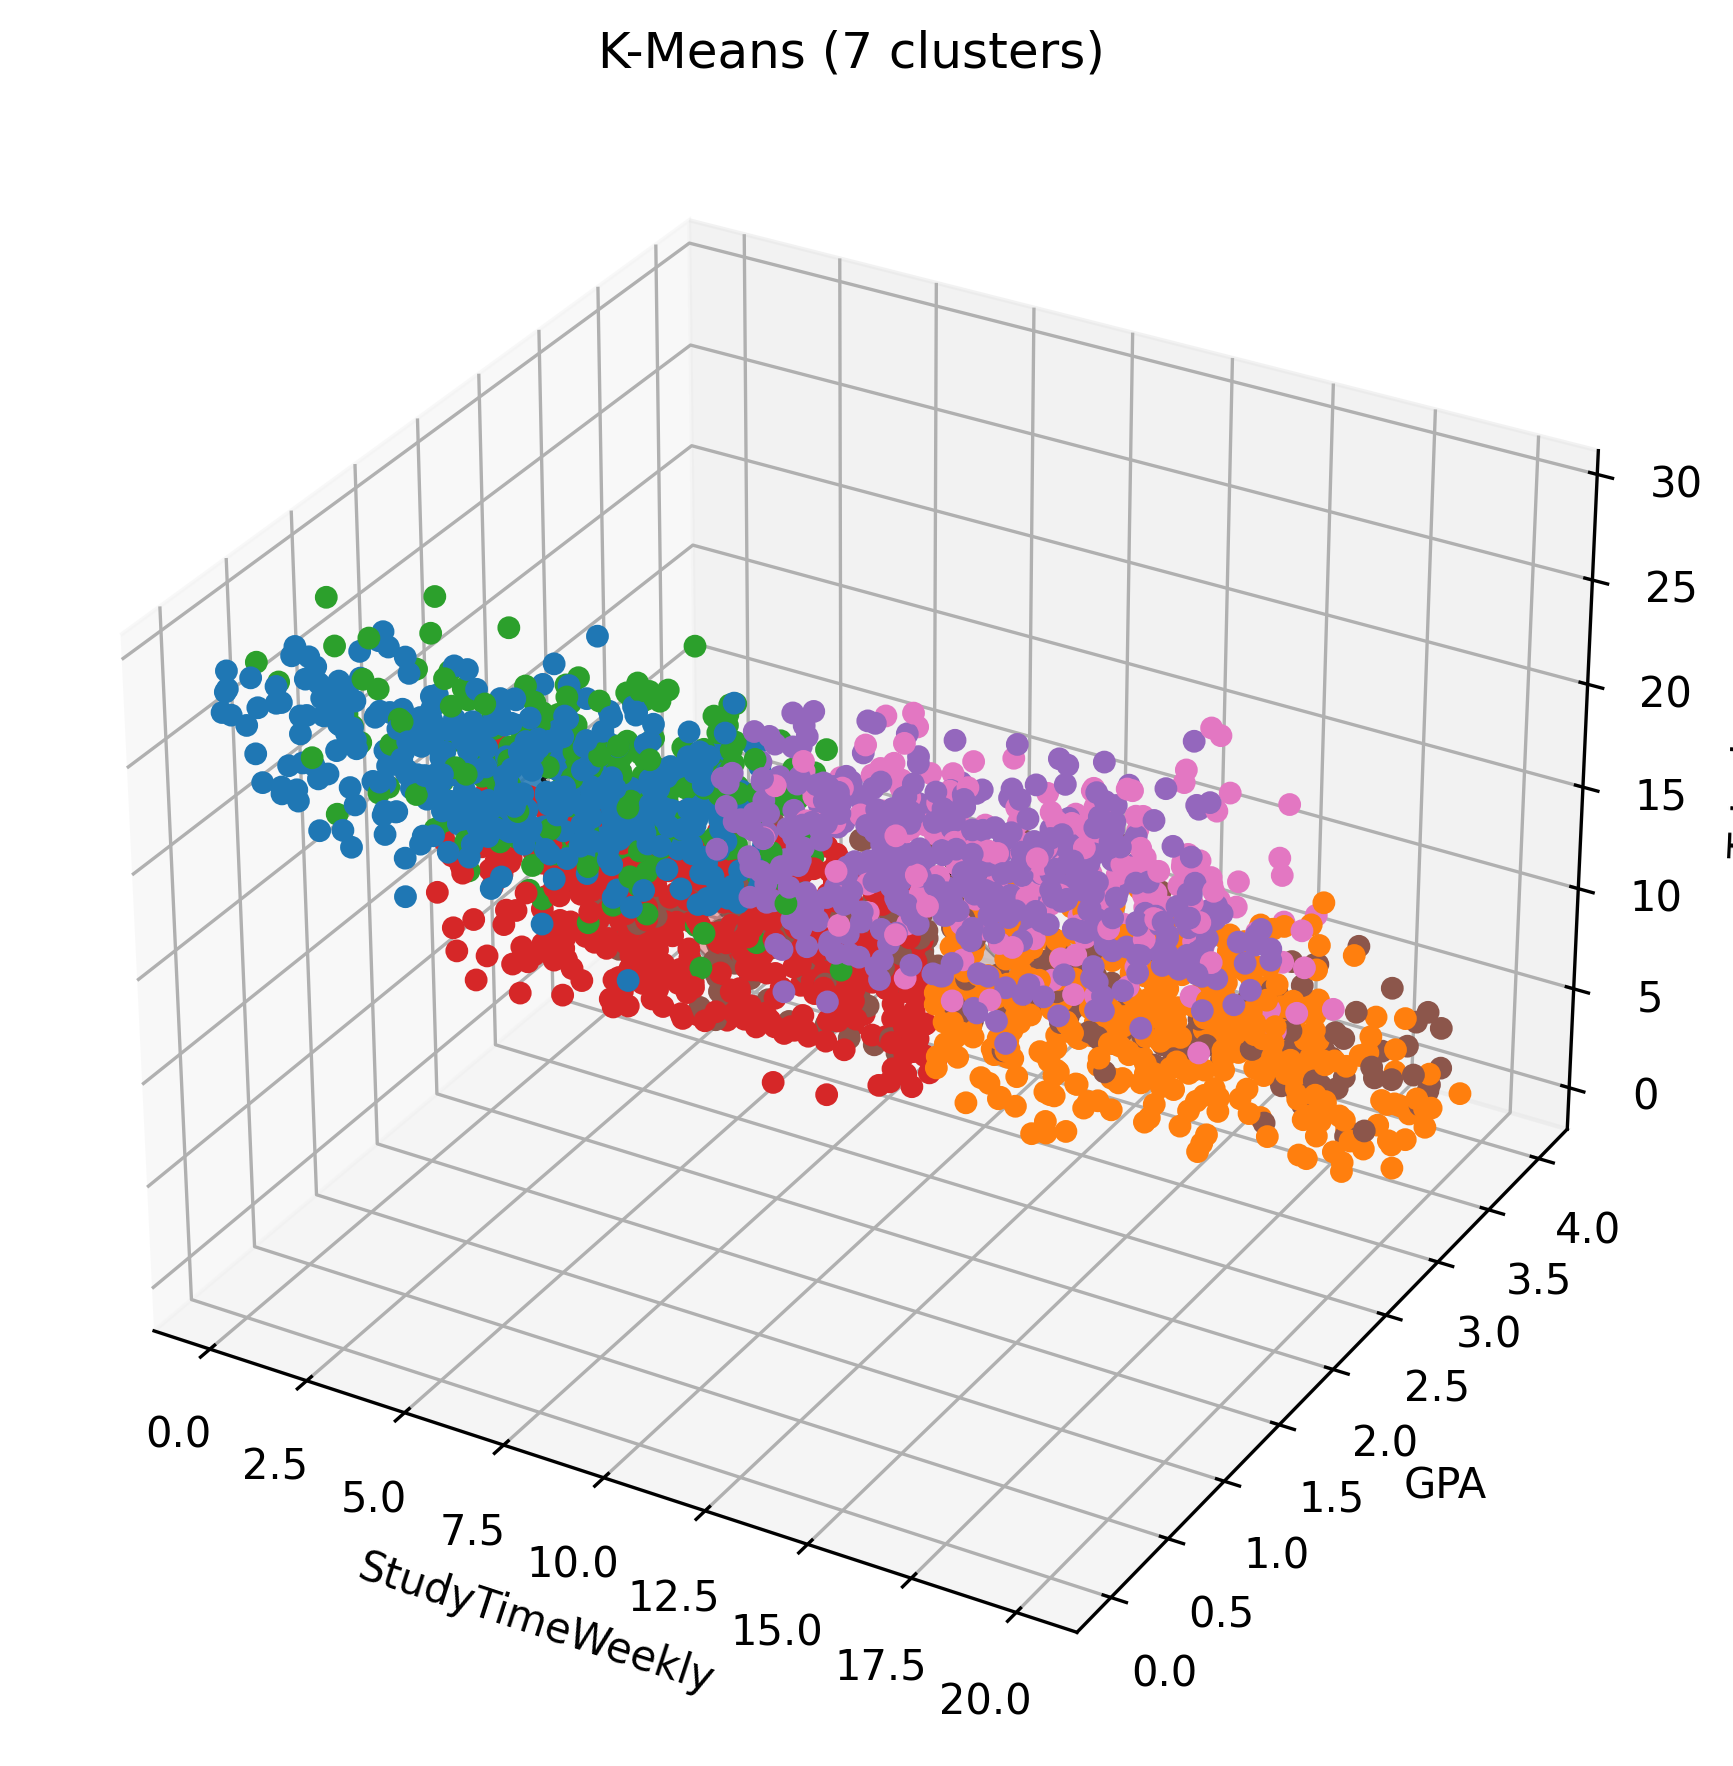
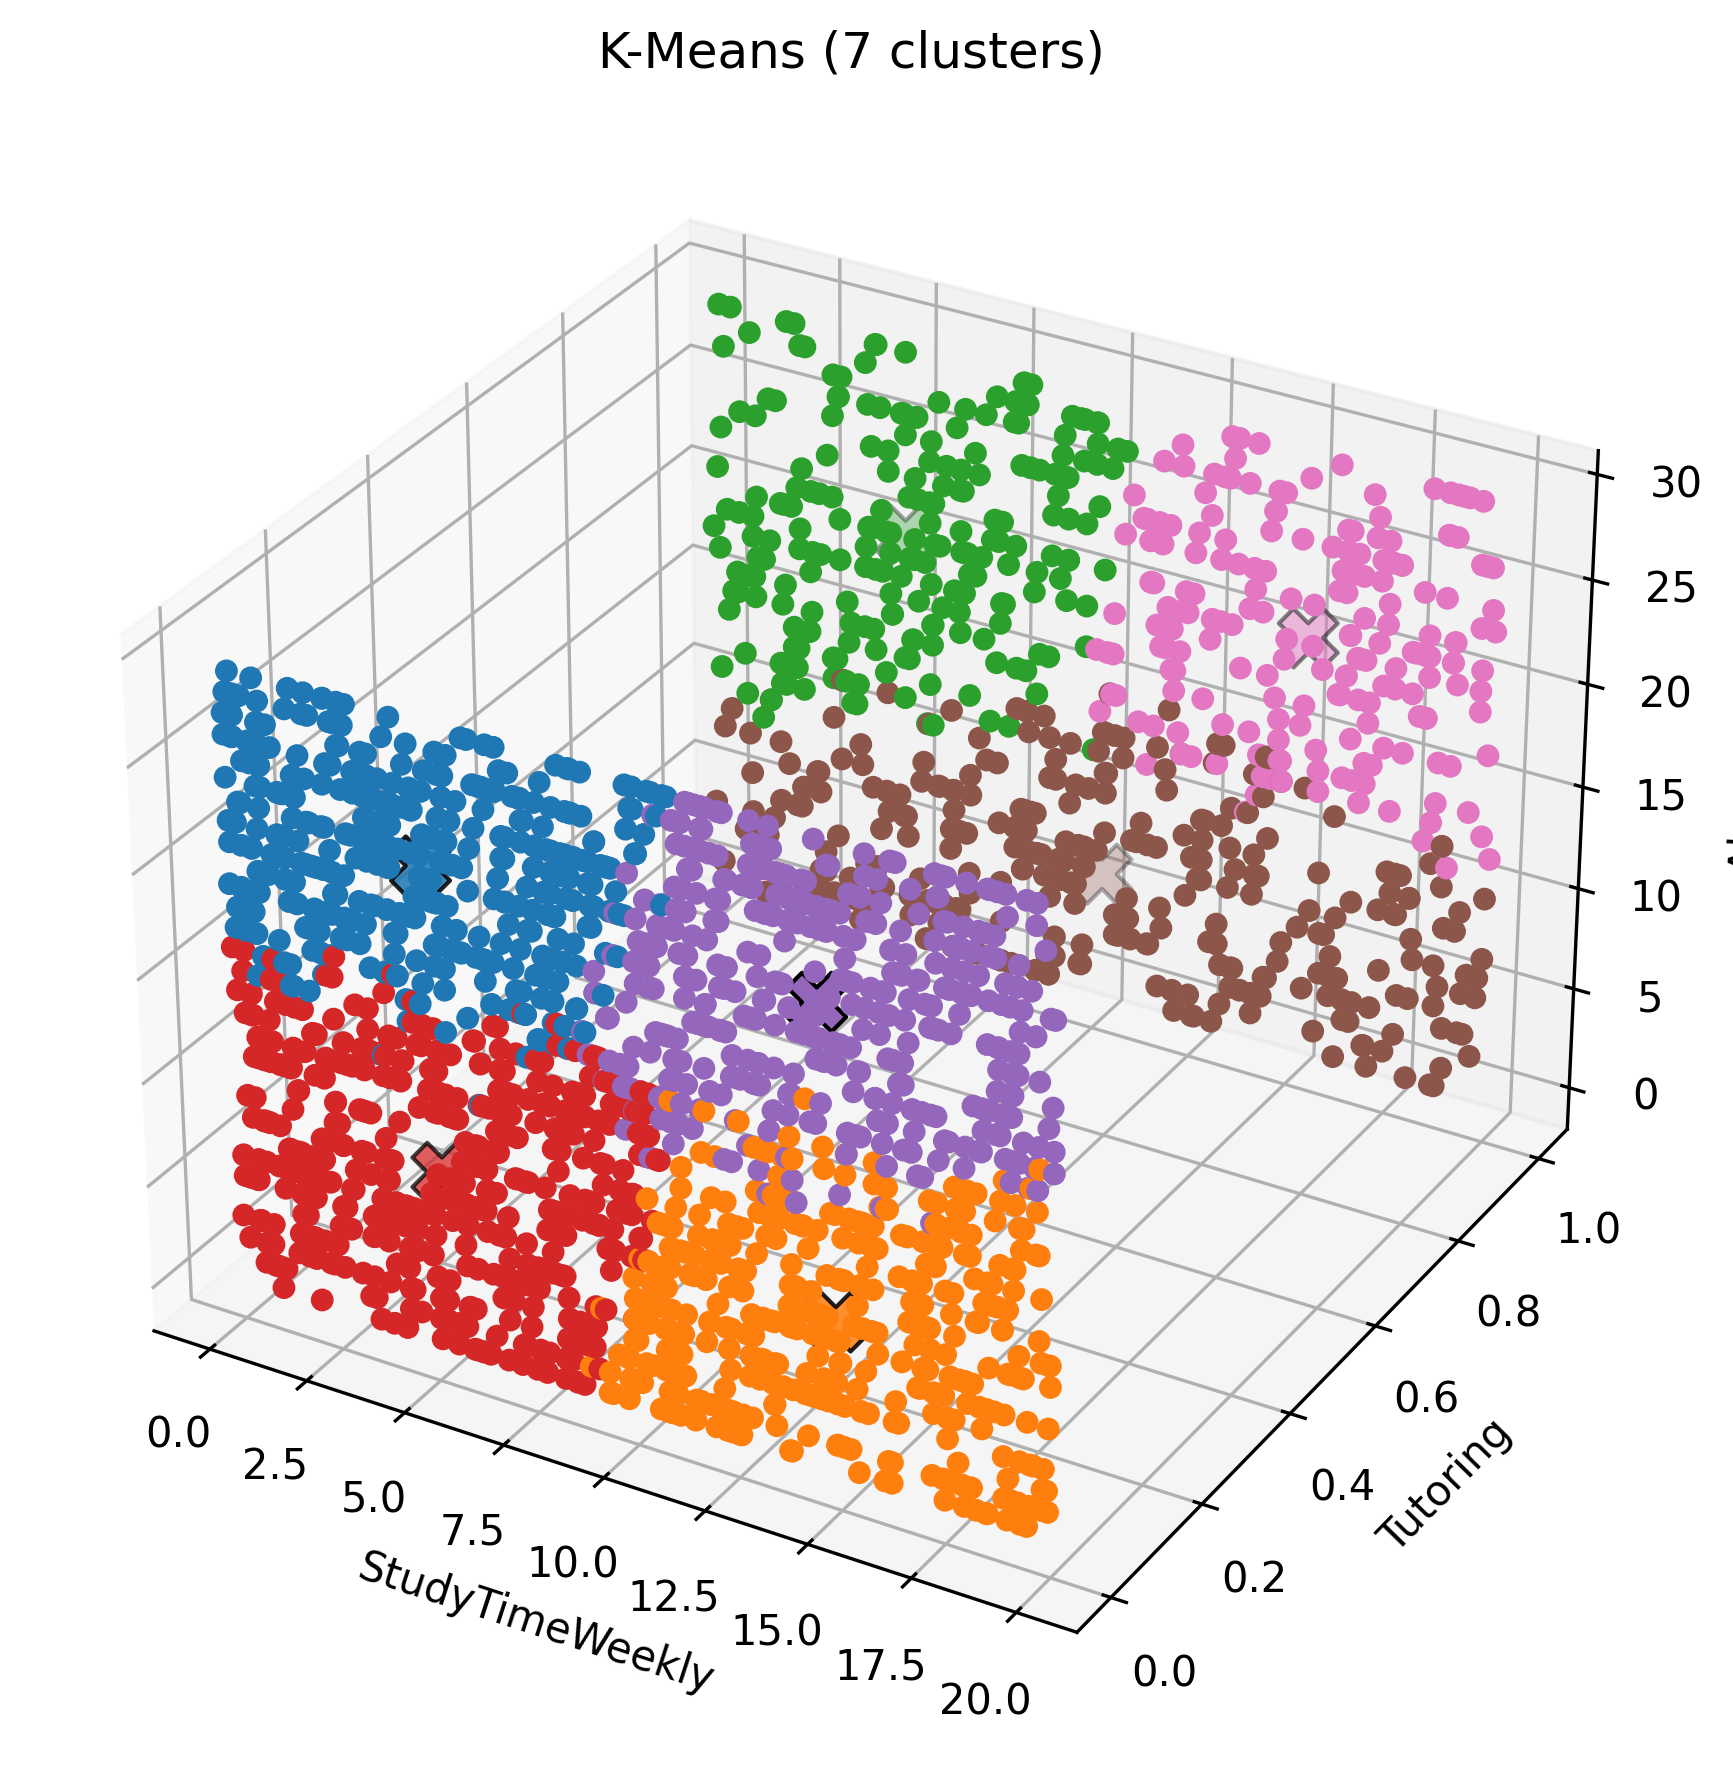
fix to plots

diff --git a/esercizio 21-08/k_means.py b/esercizio 21-08/k_means.py
@@ -41,12 +41,12 @@ print(df.describe())
 
 
 
-
+######################################################################
 
 # Scaling data to improve distance-based clustering
 feat_for_clustering = ['StudyTimeWeekly', 'GPA', 'Absences', 'Tutoring'] 
 feat_scaled = [f'SCALED_{feat}' for feat in feat_for_clustering] 
-feat_to_plot = ['StudyTimeWeekly', 'GPA', 'Tutoring']
+feat_to_plot = ['StudyTimeWeekly', 'Tutoring', 'Absences']
 
 
 scaler = StandardScaler()
@@ -55,6 +55,11 @@ df[feat_scaled] = df[feat_scaled].to_numpy()
 
 pca = PCA(n_components=0.90)
 X_pca = pca.fit_transform(df[feat_scaled])
+
+
+######################################################################
+
+
 
 
 
@@ -108,26 +113,39 @@ for ii in range(amount_of_cluster_plots):
 
   # Plot of the clusters
   labels = df["km_label"].to_numpy()
-  X = df[feat_for_clustering].to_numpy()  # original units for nicer axes
+  X_to_plot = df[feat_to_plot].to_numpy()  # original units for nicer axes
   centers = scaler.inverse_transform(kmeans.cluster_centers_)
-
   cluster_colors = {int(c): BASE_COLORS[int(c) % 10] for c in np.unique(labels)}
 
+#fix?
+#########################
+  centers_orig_df = pd.DataFrame(
+      scaler.inverse_transform(kmeans.cluster_centers_),
+      columns=feat_for_clustering
+  )
+  C_to_plot = centers_orig_df[feat_to_plot].to_numpy()
+#########################
 
   
-  if len(feat_for_clustering) >= 3:
+  if len(feat_to_plot) >= 3:
       # -------- 3D PLOT --------
     fig = plt.figure(figsize=(7,6))
     ax = fig.add_subplot(111, projection="3d")
 
     # points
     point_colors = [cluster_colors[int(c)] for c in labels]
-    ax.scatter(X[:, 0], X[:, 1], X[:, 2], c=point_colors, s=20, depthshade=False)
+    ax.scatter(X_to_plot[:, 0], X_to_plot[:, 1], X_to_plot[:, 2], c=point_colors, s=20, depthshade=False)
 
     # centers
+
+    center_colors = [cluster_colors[i] for i in range(n_clusters)]
+    ax.scatter(C_to_plot[:, 0], C_to_plot[:, 1], C_to_plot[:, 2],             # <<< CHANGED (use C_to_plot, not raw centers[:, :3])
+               c=center_colors, s=200, marker="X", edgecolor="k")
+    """
     center_colors = [cluster_colors[i] for i in range(n_clusters)]
     ax.scatter(centers[:, 0], centers[:, 1], centers[:, 2],
                 c=center_colors, s=200, marker="X", edgecolor="k")
+    """
 
     ax.set_xlabel(feat_to_plot[0])
     ax.set_ylabel(feat_to_plot[1])
@@ -143,7 +161,7 @@ for ii in range(amount_of_cluster_plots):
       # -------- 2D PLOT (your original) --------
       plt.figure(figsize=(6,6))
       point_colors = [cluster_colors[int(c)] for c in labels]
-      plt.scatter(X[:,0], X[:,1], c=point_colors, s=25)
+      plt.scatter(X_to_plot[:,0], X_to_plot[:,1], c=point_colors, s=25)
       center_colors = [cluster_colors[i] for i in range(n_clusters)]
       plt.scatter(centers[:,0], centers[:,1], c=center_colors,
                   s=200, marker="X", edgecolor="k")
